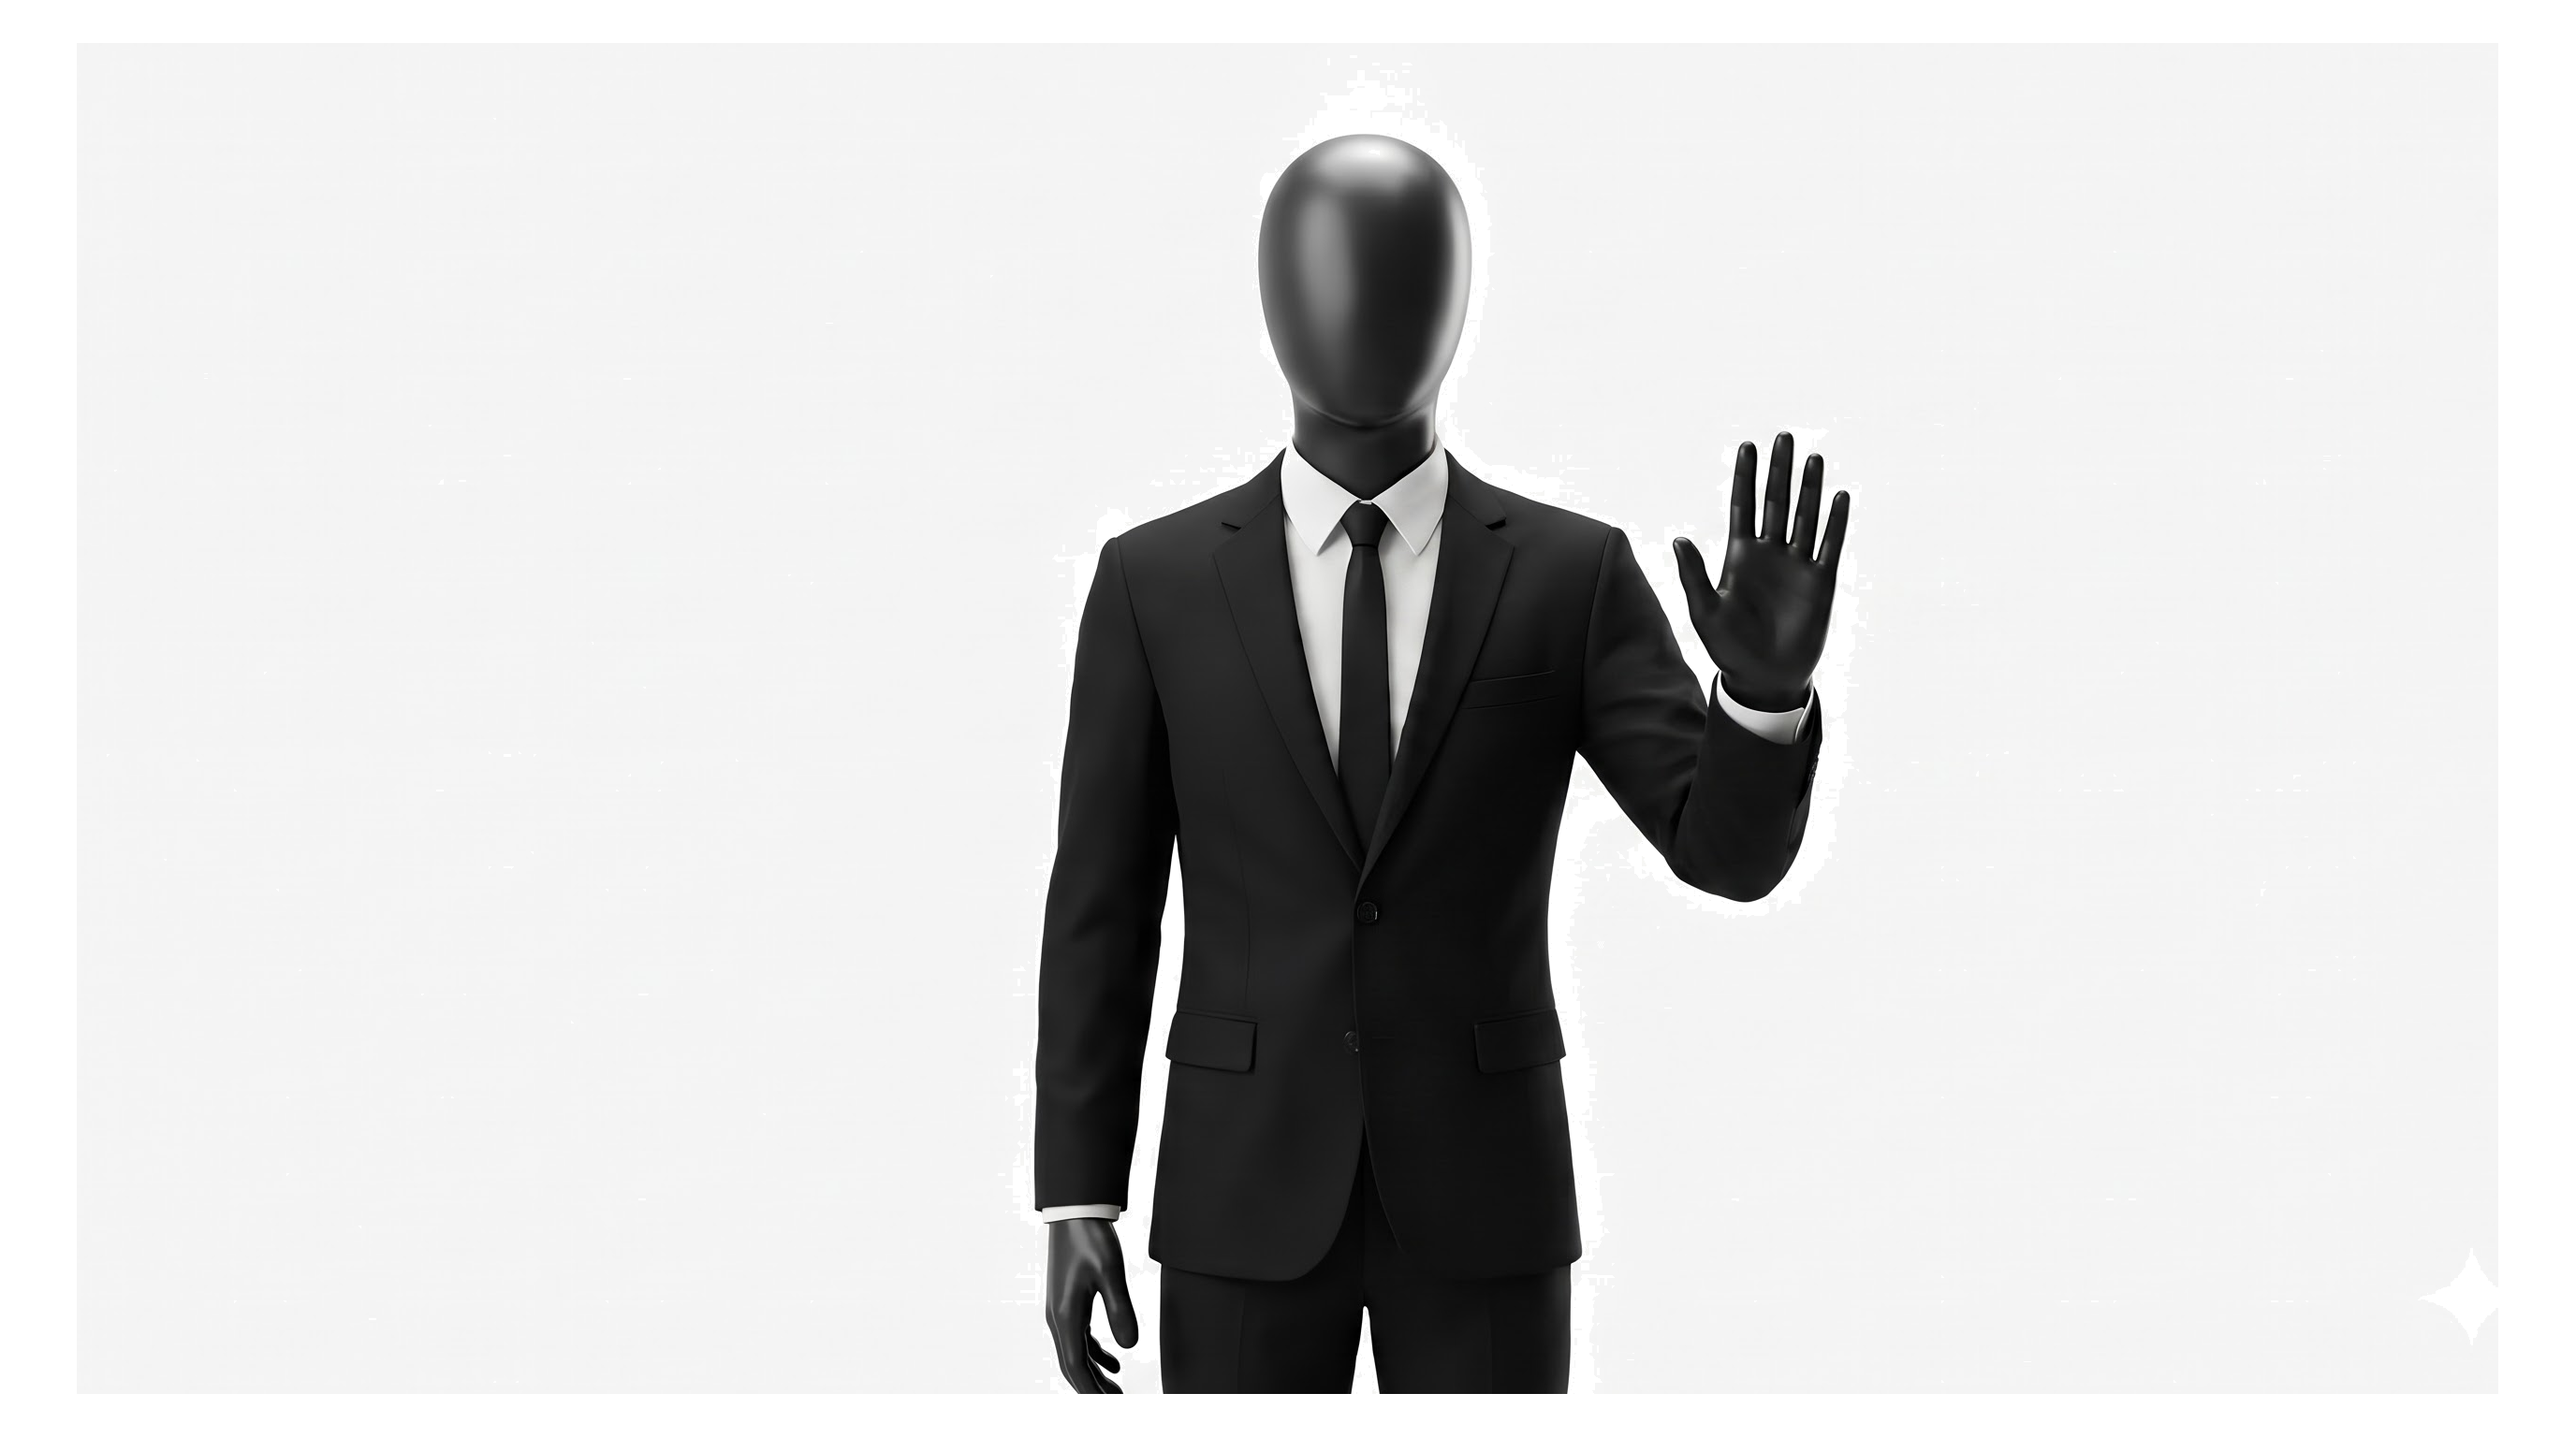
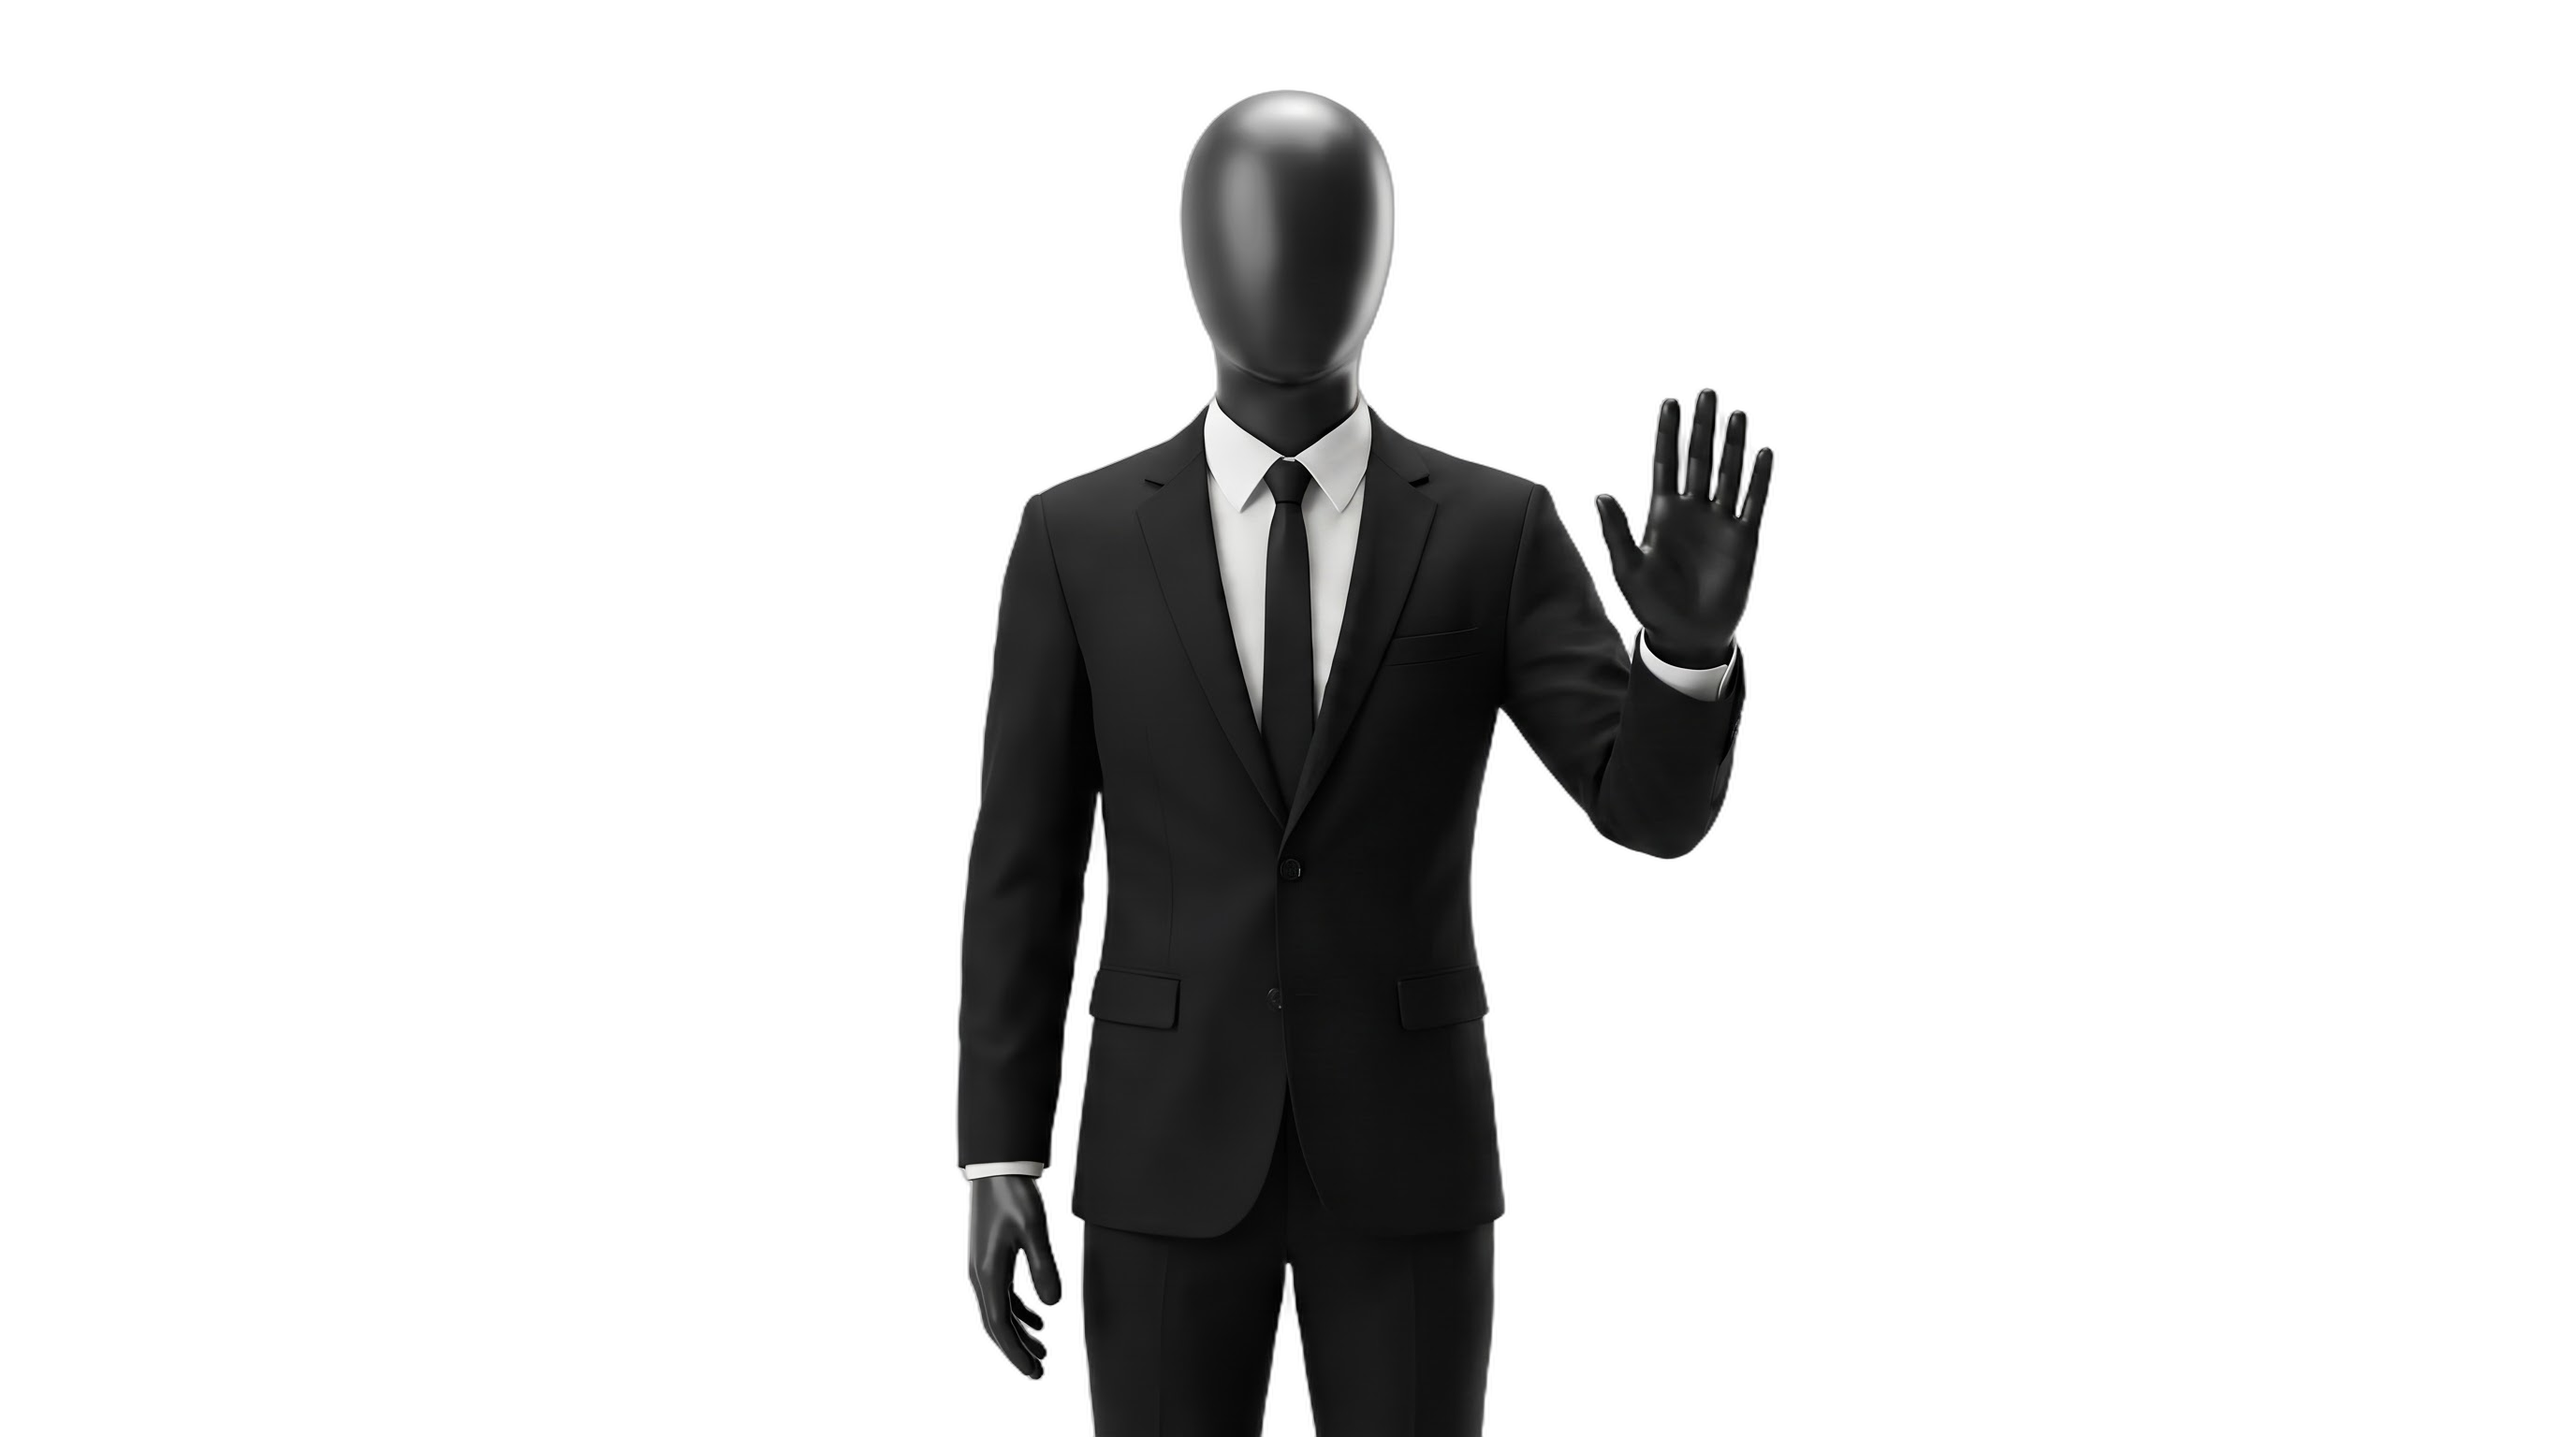
feat: convert all 21 Zyph assets to true transparent RGBA neural cutouts and update ZyphStage

Changed region(s): [[0.3438, 0.0625, 0.7188, 1.0]]

diff --git a/src/components/ZyphStage.tsx b/src/components/ZyphStage.tsx
@@ -115,7 +115,7 @@ export const ZyphStage: React.FC<ZyphStageProps> = ({
           }}
         />
 
-        {/* Zyph Mannequin - Multiply blend over pure white */}
+        {/* Zyph Mannequin - True Transparent Alpha Cutout */}
         <Img
           src={imageSrc}
           alt="Zyph Mannequin"
@@ -124,7 +124,6 @@ export const ZyphStage: React.FC<ZyphStageProps> = ({
             maxHeight: "100%",
             maxWidth: "100%",
             objectFit: "contain",
-            mixBlendMode: "multiply",
             zIndex: 2,
             filter: "contrast(1.04) brightness(0.99)",
           }}

diff --git a/scripts/batch_cutout_zyph.py b/scripts/batch_cutout_zyph.py
@@ -1,0 +1,49 @@
+import os
+import json
+from PIL import Image
+import numpy as np
+import rembg
+
+raw_dir = r"C:\Users\kando\Downloads\gif"
+manifest_path = r"C:\Users\kando\.gemini\antigravity\scratch\zyph-motion-engine\public\zyph\manifest.json"
+out_dir = r"C:\Users\kando\.gemini\antigravity\scratch\zyph-motion-engine\public\zyph"
+
+with open(manifest_path, "r", encoding="utf-8") as f:
+    manifest = json.load(f)
+
+print(f"Loaded manifest with {len(manifest)} items. Starting neural background removal...")
+
+session = rembg.new_session()
+
+for item in manifest:
+    orig_name = item["original"]
+    target_name = item["target"]
+    orig_path = os.path.join(raw_dir, orig_name)
+    target_path = os.path.join(out_dir, target_name)
+
+    if not os.path.exists(orig_path):
+        print(f"Skipping {orig_name}: not found")
+        continue
+
+    img = Image.open(orig_path)
+    w, h = img.size
+
+    # Check if image is already a transparent cutout (e.g. photoroom)
+    is_already_transparent = False
+    if img.mode == "RGBA":
+        arr = np.array(img)
+        if np.sum(arr[:, :, 3] == 0) > 5000:
+            is_already_transparent = True
+
+    if is_already_transparent:
+        print(f"[{item['index']}/21] {target_name}: Already transparent cutout ({orig_name})")
+        cutout = img
+    else:
+        print(f"[{item['index']}/21] {target_name}: Extracting alpha with RMBG 2.0 ({orig_name})...")
+        cutout = rembg.remove(img, session=session)
+
+    # Save as RGBA
+    cutout.save(target_path, "PNG")
+    print(f"  -> Saved {target_name} ({cutout.size}, mode={cutout.mode})")
+
+print("All 21 Zyph assets converted to true transparent cutouts!")
